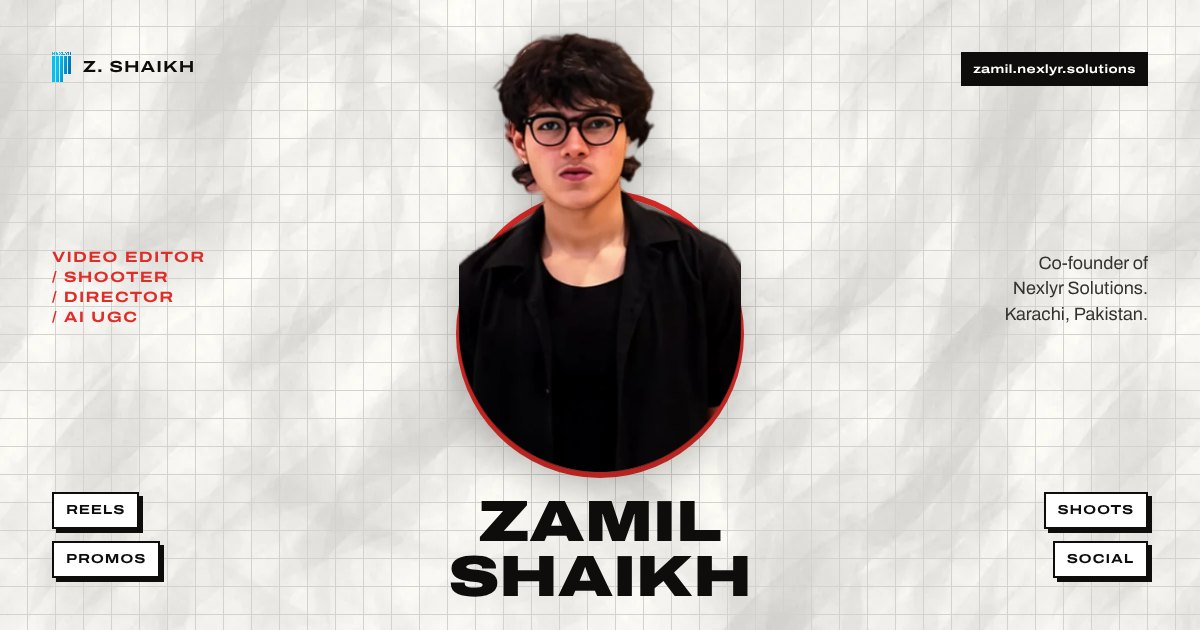
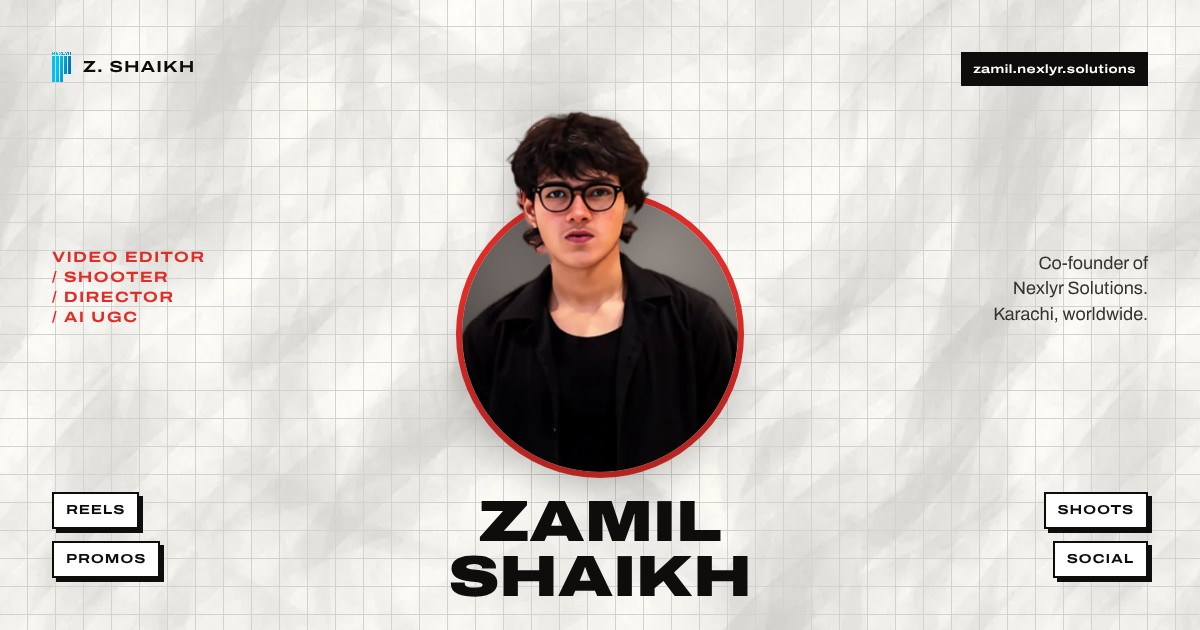
Match Hashir's portfolio: clean pop-out OG card and PWA/googlebot meta
- OG card: use the full cutout so only the head breaks out of the circle and
  the shoulders follow its curve (no flat image edges), "Karachi, worldwide."
- Add apple/mobile web-app-capable, status-bar style and googlebot meta to
  every page, as on hashir.nexlyr.solutions

Claude-Session: https://claude.ai/code/session_01APmvpyNTjAzqtNbZBAfGsg

Changed region(s): [[0.37, 0.0302, 0.6475, 0.6635], [0.8325, 0.4825, 0.9558, 0.5127]]

diff --git a/.design/og-card.html b/.design/og-card.html
@@ -11,7 +11,11 @@ body{width:1200px;height:630px;overflow:hidden;position:relative;color:var(--ink
  background-size:28px 28px,28px 28px,1024px 1024px;background-position:-1px -1px,-1px -1px,0 0}
 .o{position:absolute;left:50%;top:196px;width:276px;height:276px;translate:-50% 0}
 .o i{position:absolute;inset:0;border-radius:50%;background:radial-gradient(75% 75% at 60% 28%,oklch(70% .012 60),oklch(52% .012 50) 62%,oklch(40% .012 40));box-shadow:0 0 0 6px var(--red)}
-.o img{position:absolute;left:50%;bottom:0;width:282px;translate:-50% 0;filter:drop-shadow(0 16px 22px oklch(0% 0 0 / .28))}
+.o .p{position:absolute;left:-160px;right:-160px;top:-220px;bottom:0;filter:drop-shadow(0 16px 22px oklch(0% 0 0 / .28))}
+.o .p span{position:absolute;inset:0;
+ -webkit-mask:radial-gradient(circle 138px at 298px 358px,#000 99.4%,transparent 100%),linear-gradient(#000 0 0) 0 0/100% 262px no-repeat;
+ mask:radial-gradient(circle 138px at 298px 358px,#000 99.4%,transparent 100%),linear-gradient(#000 0 0) 0 0/100% 262px no-repeat}
+.o .p img{position:absolute;left:50%;top:125px;width:360px;translate:-50% 0}
 h1{position:absolute;left:0;right:0;top:494px;text-align:center;font:900 58px/.95 W;text-transform:uppercase}
 .side{position:absolute;top:52px;bottom:52px;width:220px;display:flex;flex-direction:column;justify-content:space-between}
 .l{left:52px}.r{right:52px;align-items:flex-end;text-align:right}
@@ -31,9 +35,9 @@ h1{position:absolute;left:0;right:0;top:494px;text-align:center;font:900 58px/.9
 </div>
 <div class="side r">
   <span class="url">zamil.nexlyr.solutions</span>
-  <p class="note">Co-founder of<br>Nexlyr Solutions.<br>Karachi, Pakistan.</p>
+  <p class="note">Co-founder of<br>Nexlyr Solutions.<br>Karachi, worldwide.</p>
   <div class="tags"><b>Shoots</b><b>Social</b></div>
 </div>
-<div class="o"><i></i><img src="og-pop.webp" alt=""></div>
+<div class="o"><i></i><div class="p"><span><img src="../zamil-cutout.webp" alt=""></span></div></div>
 <h1>Zamil<br>Shaikh</h1>
 </body></html>

diff --git a/index.html b/index.html
@@ -8,6 +8,7 @@
 <meta name="keywords" content="Zamil Shaikh, Zamil, zamil_fr, video editor Karachi, videographer Karachi, reels editor, promo video editing, short-form video, social media marketing Karachi, social media manager, content creator, AI UGC, Nexlyr Solutions, Khidmat-e-Rizq">
 <meta name="author" content="Zamil Shaikh">
 <meta name="robots" content="index, follow, max-image-preview:large, max-snippet:-1, max-video-preview:-1">
+<meta name="googlebot" content="index, follow, max-image-preview:large, max-snippet:-1">
 <meta name="google-site-verification" content="wDHB1RTgLPvijMdIk2iDe6qK_QwUgyCxZqGYaZdzou4">
 <meta name="geo.region" content="PK-SD">
 <meta name="geo.placename" content="Karachi">
@@ -20,6 +21,9 @@
 <link rel="icon" type="image/png" href="/favicon.png">
 <link rel="apple-touch-icon" href="/apple-touch-icon.png">
 <link rel="manifest" href="/site.webmanifest">
+<meta name="apple-mobile-web-app-capable" content="yes">
+<meta name="mobile-web-app-capable" content="yes">
+<meta name="apple-mobile-web-app-status-bar-style" content="black-translucent">
 <meta name="apple-mobile-web-app-title" content="Zamil">
 <meta name="format-detection" content="telephone=no">
 <meta property="og:locale" content="en_US">

diff --git a/social-media-marketing.html b/social-media-marketing.html
@@ -7,6 +7,7 @@
 <meta name="description" content="Content planning, posting, page management and campaign support by Zamil Shaikh in Karachi, for brands and businesses that want stronger content and a more professional online presence.">
 <meta name="author" content="Zamil Shaikh">
 <meta name="robots" content="index, follow, max-image-preview:large, max-snippet:-1, max-video-preview:-1">
+<meta name="googlebot" content="index, follow, max-image-preview:large, max-snippet:-1">
 <meta name="google-site-verification" content="wDHB1RTgLPvijMdIk2iDe6qK_QwUgyCxZqGYaZdzou4">
 <meta name="geo.region" content="PK-SD">
 <meta name="geo.placename" content="Karachi">
@@ -19,6 +20,9 @@
 <link rel="icon" type="image/png" href="/favicon.png">
 <link rel="apple-touch-icon" href="/apple-touch-icon.png">
 <link rel="manifest" href="/site.webmanifest">
+<meta name="apple-mobile-web-app-capable" content="yes">
+<meta name="mobile-web-app-capable" content="yes">
+<meta name="apple-mobile-web-app-status-bar-style" content="black-translucent">
 <meta name="apple-mobile-web-app-title" content="Zamil">
 <meta name="format-detection" content="telephone=no">
 <meta property="og:locale" content="en_US">

diff --git a/shooting-directing.html b/shooting-directing.html
@@ -7,6 +7,7 @@
 <meta name="description" content="Promotional videos planned, shot, directed and edited by Zamil Shaikh in Karachi, for brands and businesses that need content for social media and digital promotion.">
 <meta name="author" content="Zamil Shaikh">
 <meta name="robots" content="index, follow, max-image-preview:large, max-snippet:-1, max-video-preview:-1">
+<meta name="googlebot" content="index, follow, max-image-preview:large, max-snippet:-1">
 <meta name="google-site-verification" content="wDHB1RTgLPvijMdIk2iDe6qK_QwUgyCxZqGYaZdzou4">
 <meta name="geo.region" content="PK-SD">
 <meta name="geo.placename" content="Karachi">
@@ -19,6 +20,9 @@
 <link rel="icon" type="image/png" href="/favicon.png">
 <link rel="apple-touch-icon" href="/apple-touch-icon.png">
 <link rel="manifest" href="/site.webmanifest">
+<meta name="apple-mobile-web-app-capable" content="yes">
+<meta name="mobile-web-app-capable" content="yes">
+<meta name="apple-mobile-web-app-status-bar-style" content="black-translucent">
 <meta name="apple-mobile-web-app-title" content="Zamil">
 <meta name="format-detection" content="telephone=no">
 <meta property="og:locale" content="en_US">

diff --git a/video-editing.html b/video-editing.html
@@ -7,6 +7,7 @@
 <meta name="description" content="Reels, short-form content, promotional videos and social clips edited by Zamil Shaikh in Karachi, in CapCut and Premiere Pro. Most edits take one to three days.">
 <meta name="author" content="Zamil Shaikh">
 <meta name="robots" content="index, follow, max-image-preview:large, max-snippet:-1, max-video-preview:-1">
+<meta name="googlebot" content="index, follow, max-image-preview:large, max-snippet:-1">
 <meta name="google-site-verification" content="wDHB1RTgLPvijMdIk2iDe6qK_QwUgyCxZqGYaZdzou4">
 <meta name="geo.region" content="PK-SD">
 <meta name="geo.placename" content="Karachi">
@@ -19,6 +20,9 @@
 <link rel="icon" type="image/png" href="/favicon.png">
 <link rel="apple-touch-icon" href="/apple-touch-icon.png">
 <link rel="manifest" href="/site.webmanifest">
+<meta name="apple-mobile-web-app-capable" content="yes">
+<meta name="mobile-web-app-capable" content="yes">
+<meta name="apple-mobile-web-app-status-bar-style" content="black-translucent">
 <meta name="apple-mobile-web-app-title" content="Zamil">
 <meta name="format-detection" content="telephone=no">
 <meta property="og:locale" content="en_US">

diff --git a/about.html b/about.html
@@ -7,6 +7,7 @@
 <meta name="description" content="Zamil Shaikh is a video editor, shooter and director in Karachi, co-founder of Nexlyr Solutions and founder of Khidmat-e-Rizq, a food drive initiative.">
 <meta name="author" content="Zamil Shaikh">
 <meta name="robots" content="index, follow, max-image-preview:large, max-snippet:-1, max-video-preview:-1">
+<meta name="googlebot" content="index, follow, max-image-preview:large, max-snippet:-1">
 <meta name="google-site-verification" content="wDHB1RTgLPvijMdIk2iDe6qK_QwUgyCxZqGYaZdzou4">
 <meta name="geo.region" content="PK-SD">
 <meta name="geo.placename" content="Karachi">
@@ -19,6 +20,9 @@
 <link rel="icon" type="image/png" href="/favicon.png">
 <link rel="apple-touch-icon" href="/apple-touch-icon.png">
 <link rel="manifest" href="/site.webmanifest">
+<meta name="apple-mobile-web-app-capable" content="yes">
+<meta name="mobile-web-app-capable" content="yes">
+<meta name="apple-mobile-web-app-status-bar-style" content="black-translucent">
 <meta name="apple-mobile-web-app-title" content="Zamil">
 <meta name="format-detection" content="telephone=no">
 <meta property="og:locale" content="en_US">
